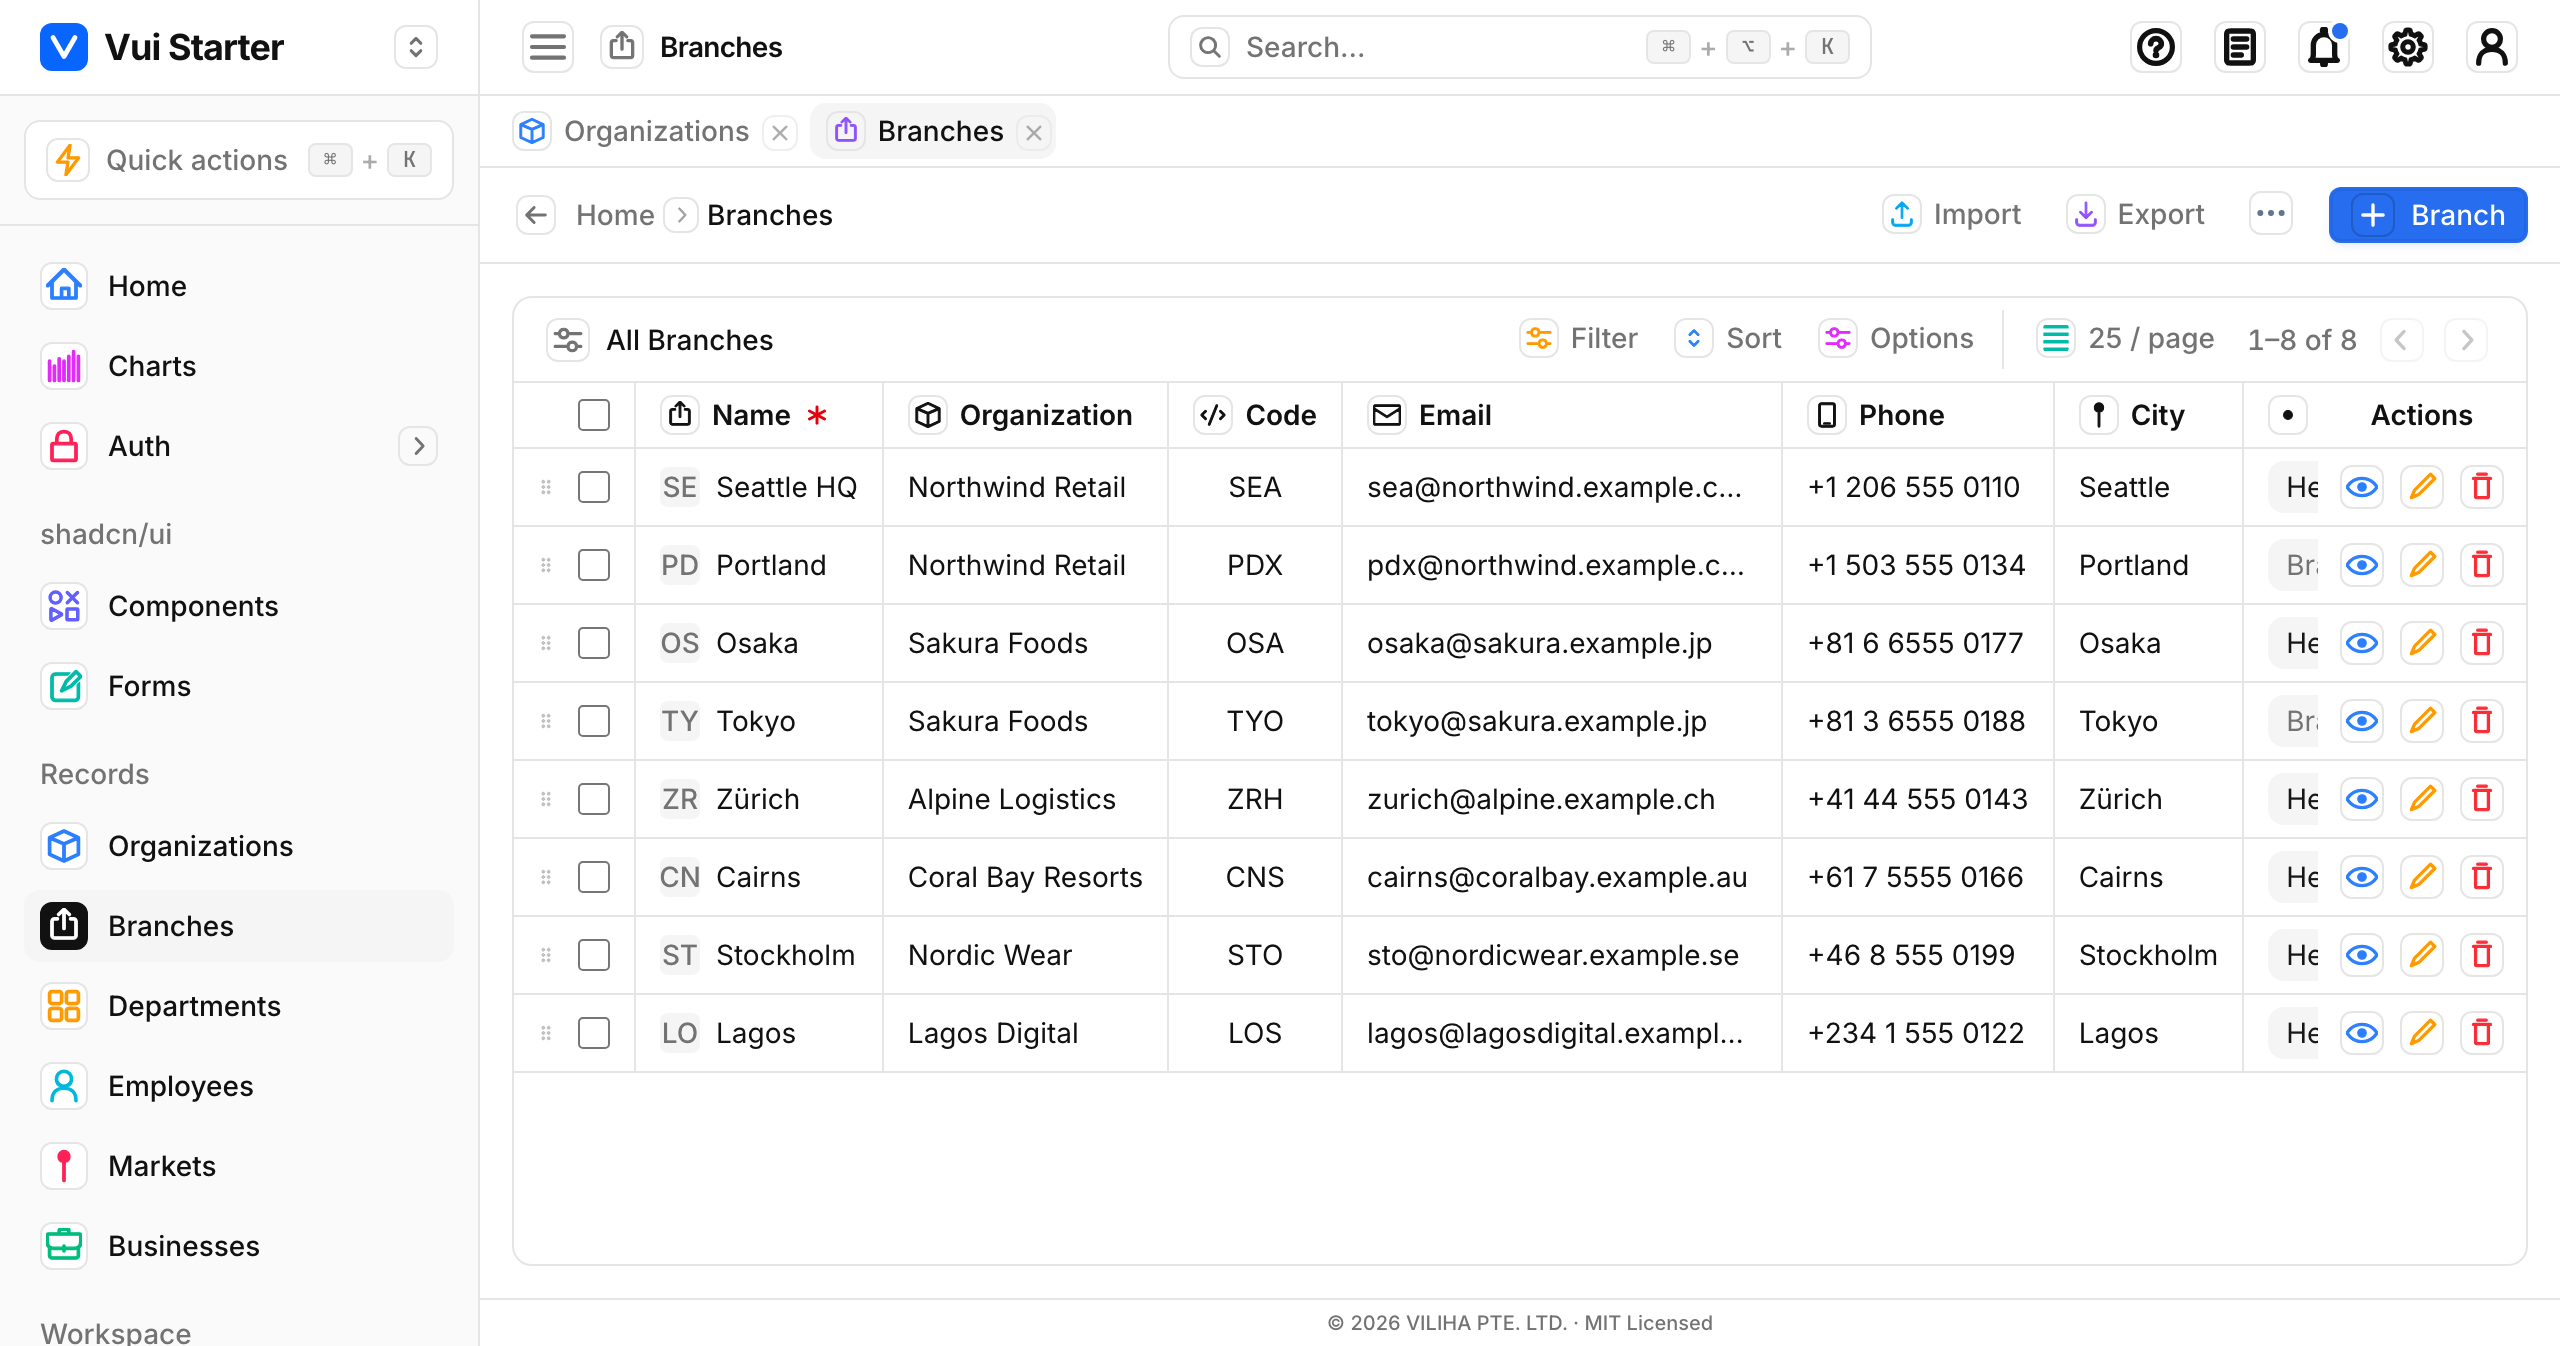
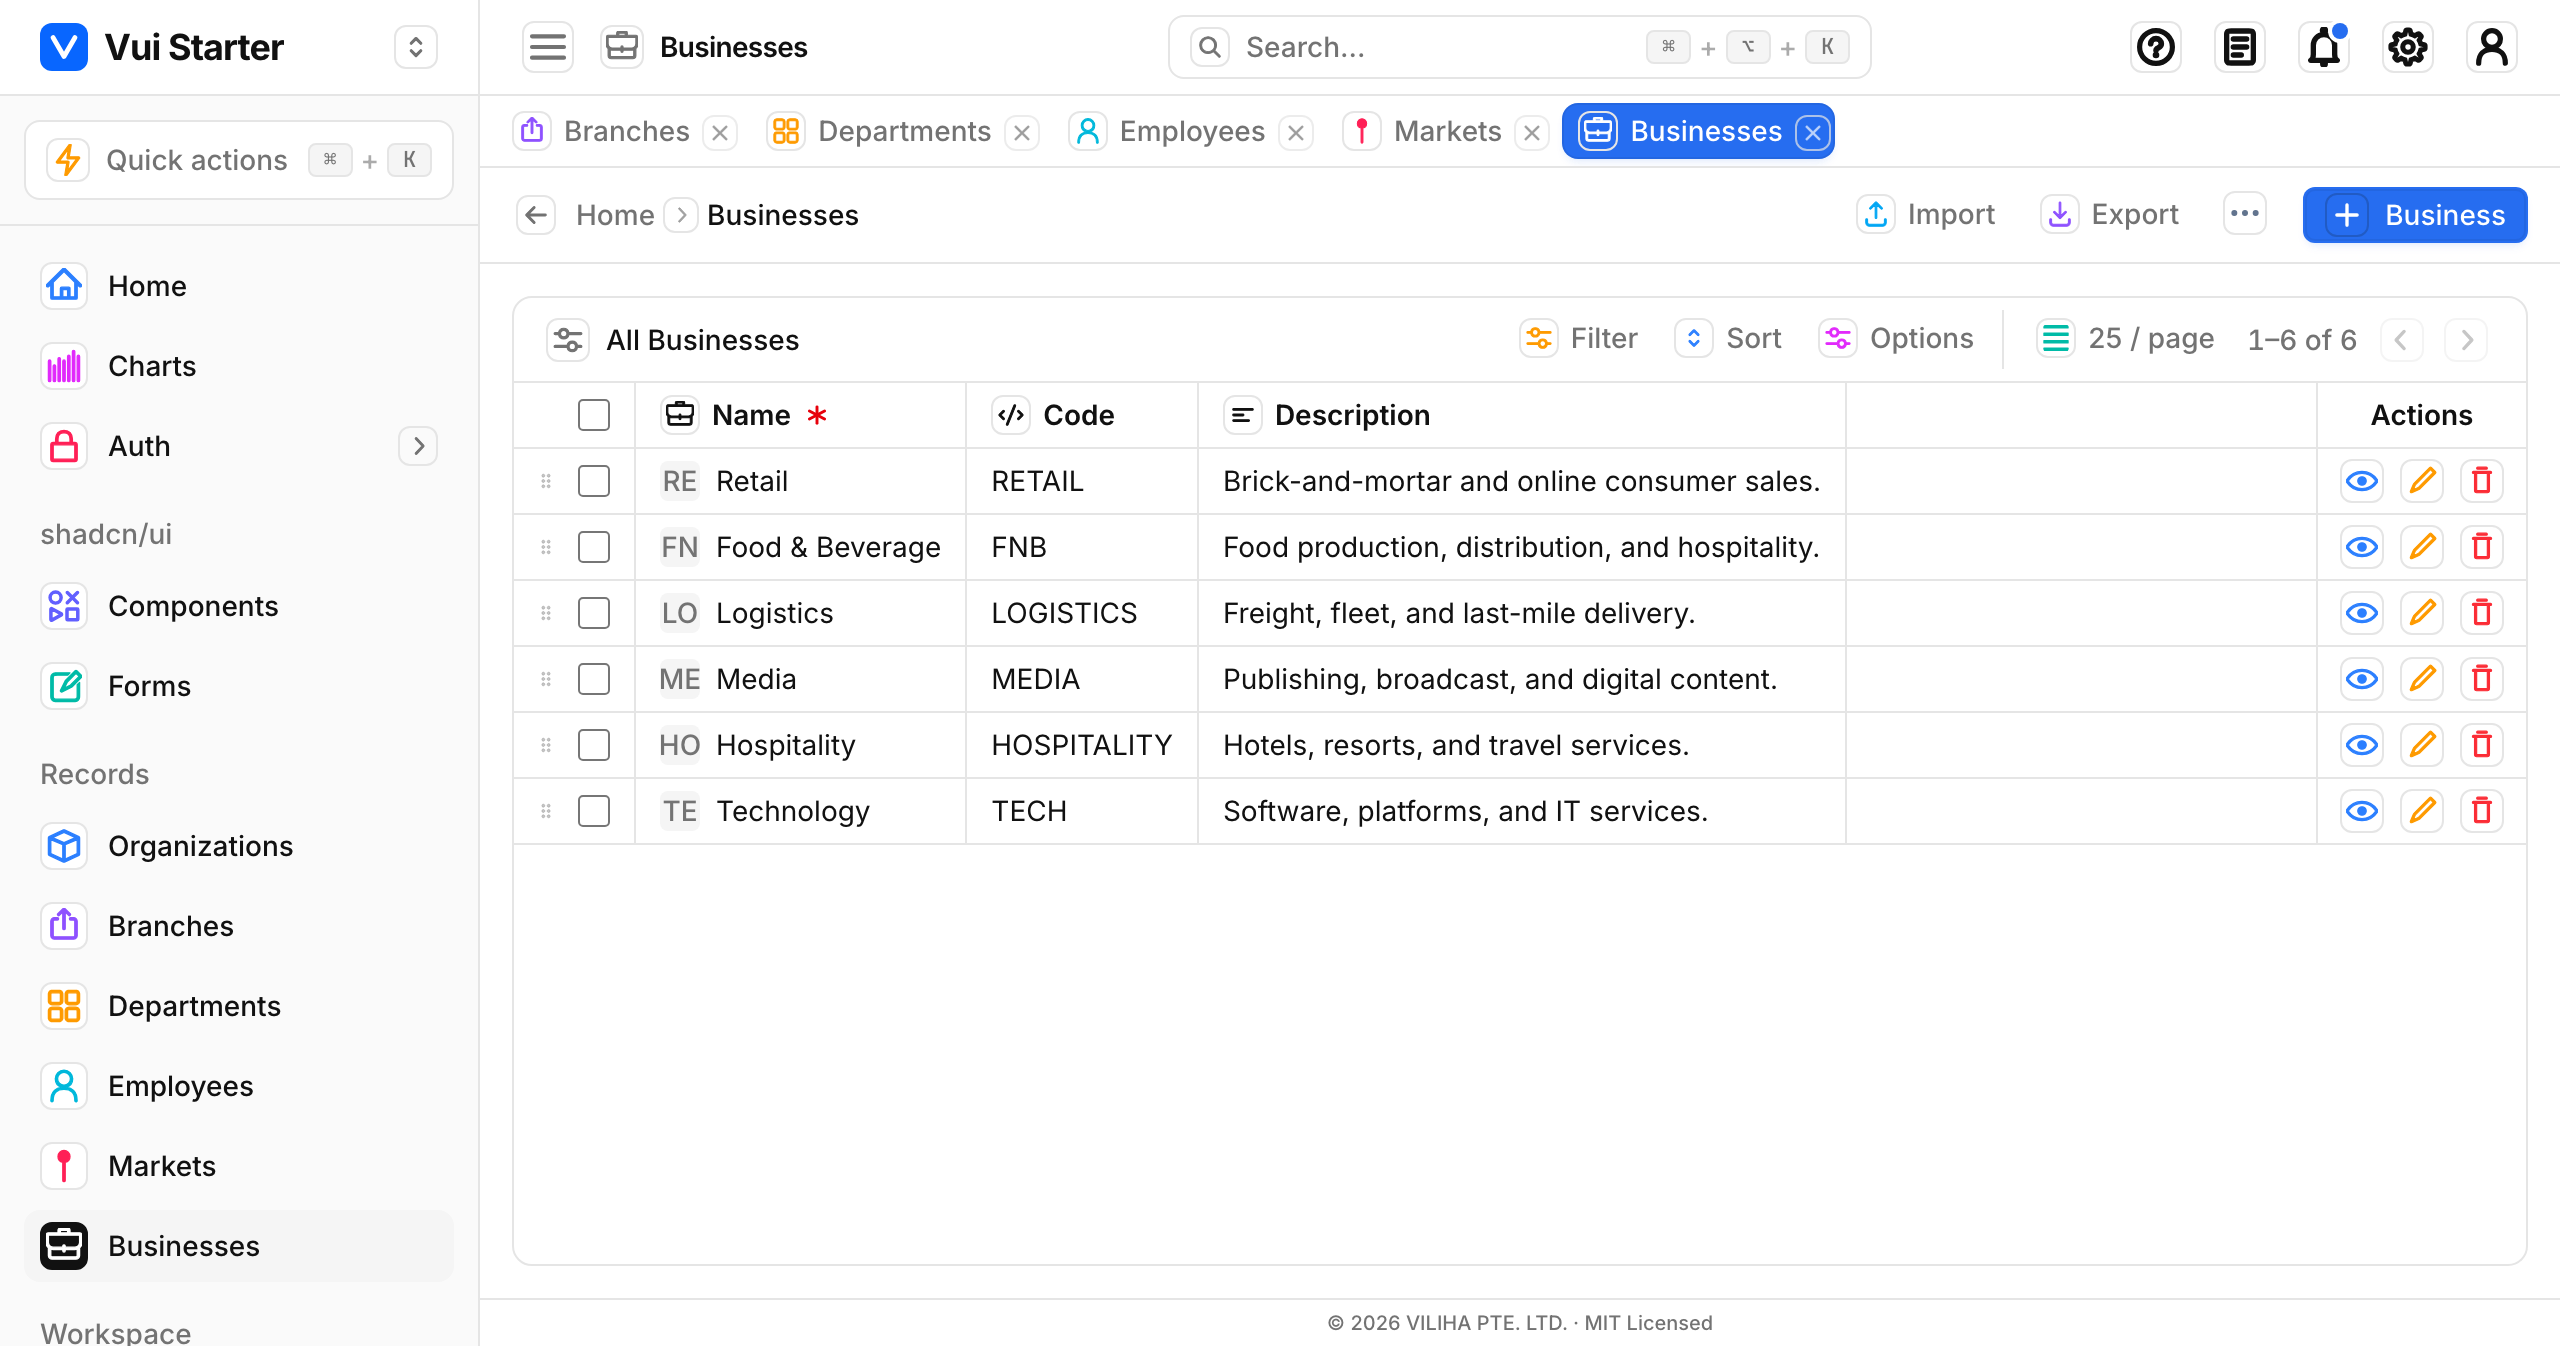
feat(backoffice): cap open tabs (NEXT_PUBLIC_MAX_TABS), warn + evict oldest; primary active tab
- Max open tabs from NEXT_PUBLIC_MAX_TABS (default 5, min 1); exceeding it
  evicts the oldest non-active tab (FIFO) with a transient warning. All
  client-side (sessionStorage) — no server involvement.
- Active tab now uses the primary color (blue pill, primary-foreground text).
- Documented the env var in .env.example and /docs/configuration.
Verified at runtime: 6 navigations with cap 5 leaves 5 tabs, oldest dropped.

diff --git a/apps/backoffice/app/_components/open-tabs.tsx b/apps/backoffice/app/_components/open-tabs.tsx
@@ -58,12 +58,20 @@ function tabMeta(href: string): Tab {
 
 const KEY = "vui.openTabs";
 
+/** Max tabs kept open, from the env (build-time inlined). Default 5, min 1. */
+export const MAX_TABS = (() => {
+  const n = Number(process.env.NEXT_PUBLIC_MAX_TABS);
+  return Number.isFinite(n) && n >= 1 ? Math.floor(n) : 5;
+})();
+
 type Ctx = {
   tabs: Tab[];
   activeHref: string;
   /** Add a tab. `background: true` opens it without leaving the current page. */
   openTab: (href: string, opts?: { background?: boolean }) => void;
   close: (href: string) => void;
+  /** Transient warning (e.g. the oldest tab was evicted at the cap). */
+  notice: string | null;
 };
 const OpenTabsContext = React.createContext<Ctx | null>(null);
 
@@ -79,8 +87,38 @@ export function OpenTabsProvider({ children }: { children: React.ReactNode }) {
   const router = useRouter();
   // Only hrefs are stored (icons don't serialize); tabs are derived on render.
   const [hrefs, setHrefs] = React.useState<string[]>([]);
+  const [notice, setNotice] = React.useState<string | null>(null);
+  const noticeTimer = React.useRef<ReturnType<typeof setTimeout>>(undefined);
+  // Latest pathname for the (pure) reducer without re-creating callbacks.
+  const activeRef = React.useRef(pathname);
+  activeRef.current = pathname;
+  // Set inside the reducer when a tab is evicted; drained by the persist effect
+  // so the warning fires exactly once. ponytail: a ref write in a reducer is a
+  // benign, idempotent side effect — fine here, avoids a second state pass.
+  const evicted = React.useRef(false);
 
-  // Hydrate from sessionStorage once, ensuring the current page is present.
+  const showNotice = React.useCallback((msg: string) => {
+    setNotice(msg);
+    clearTimeout(noticeTimer.current);
+    noticeTimer.current = setTimeout(() => setNotice(null), 3200);
+  }, []);
+
+  /** Add `href`, then evict the oldest tab that isn't the one just added or the
+   *  active page until within MAX_TABS. Pure enough to run in a reducer. */
+  const capAdd = React.useCallback((prev: string[], href: string): string[] => {
+    if (prev.includes(href)) return prev;
+    const next = [...prev, href];
+    while (next.length > MAX_TABS) {
+      const i = next.findIndex((h) => h !== href && h !== activeRef.current);
+      if (i === -1) break; // nothing safe to drop
+      next.splice(i, 1);
+      evicted.current = true;
+    }
+    return next;
+  }, []);
+
+  // Hydrate from sessionStorage once, ensuring the current page is present and
+  // the list is within the cap (older extras dropped silently on load).
   React.useEffect(() => {
     let stored: string[] = [];
     try {
@@ -88,33 +126,42 @@ export function OpenTabsProvider({ children }: { children: React.ReactNode }) {
     } catch {
       // ignore malformed storage
     }
-    if (!stored.includes(pathname)) stored = [...stored, pathname];
+    if (!stored.includes(pathname)) stored.push(pathname);
+    while (stored.length > MAX_TABS) {
+      const i = stored.findIndex((h) => h !== pathname);
+      if (i === -1) break;
+      stored.splice(i, 1);
+    }
     setHrefs(stored);
     // eslint-disable-next-line react-hooks/exhaustive-deps
   }, []);
 
   // Add the current route as a tab when navigating.
   React.useEffect(() => {
-    setHrefs((prev) => (prev.includes(pathname) ? prev : [...prev, pathname]));
-  }, [pathname]);
+    setHrefs((prev) => capAdd(prev, pathname));
+  }, [pathname, capAdd]);
 
-  // Persist the open list.
+  // Persist the open list, and surface any eviction that just happened.
   React.useEffect(() => {
     try {
       sessionStorage.setItem(KEY, JSON.stringify(hrefs));
     } catch {
       // ignore storage failures (private mode, quota)
     }
-  }, [hrefs]);
+    if (evicted.current) {
+      evicted.current = false;
+      showNotice(`Only ${MAX_TABS} tabs stay open — closed the oldest.`);
+    }
+  }, [hrefs, showNotice]);
 
   const openTab = React.useCallback(
     (href: string, opts?: { background?: boolean }) => {
       const clean = href.split("?")[0] ?? href;
-      setHrefs((prev) => (prev.includes(clean) ? prev : [...prev, clean]));
+      setHrefs((prev) => capAdd(prev, clean));
       // Foreground open switches to it; background just parks it in the strip.
       if (!opts?.background) router.push(href);
     },
-    [router],
+    [router, capAdd],
   );
 
   const close = React.useCallback(
@@ -132,8 +179,14 @@ export function OpenTabsProvider({ children }: { children: React.ReactNode }) {
   );
 
   const value = React.useMemo<Ctx>(
-    () => ({ tabs: hrefs.map(tabMeta), activeHref: pathname, openTab, close }),
-    [hrefs, pathname, openTab, close],
+    () => ({
+      tabs: hrefs.map(tabMeta),
+      activeHref: pathname,
+      openTab,
+      close,
+      notice,
+    }),
+    [hrefs, pathname, openTab, close, notice],
   );
 
   return (
@@ -145,7 +198,7 @@ export function OpenTabsProvider({ children }: { children: React.ReactNode }) {
 
 /** The tab strip — render it directly under the top bar. */
 export function TabStrip() {
-  const { tabs, activeHref, close } = useOpenTabs();
+  const { tabs, activeHref, close, notice } = useOpenTabs();
   const router = useRouter();
   if (tabs.length === 0) return null;
 
@@ -166,7 +219,7 @@ export function TabStrip() {
             className={cn(
               "group flex h-7 shrink-0 items-center gap-1.5 rounded-md pl-2 pr-1 text-sm transition-colors",
               active
-                ? "bg-accent text-foreground"
+                ? "bg-[var(--button-primary)] text-[var(--button-primary-foreground)] shadow-[var(--button-shadow)]"
                 : "text-muted-foreground hover:bg-accent/50",
             )}
           >
@@ -175,20 +228,38 @@ export function TabStrip() {
               onClick={() => router.push(t.href)}
               className="flex items-center gap-1.5"
             >
-              <Icon className={cn("size-3.5 shrink-0", t.color)} />
+              <Icon
+                className={cn(
+                  "size-3.5 shrink-0",
+                  active ? "text-[var(--button-primary-foreground)]" : t.color,
+                )}
+              />
               <span className="max-w-40 truncate">{t.label}</span>
             </button>
             <button
               type="button"
               onClick={() => close(t.href)}
               aria-label={`Close ${t.label}`}
-              className="grid size-4 place-items-center rounded text-muted-foreground opacity-60 transition-colors hover:bg-border hover:text-foreground group-hover:opacity-100"
+              className={cn(
+                "grid size-4 place-items-center rounded opacity-70 transition-colors group-hover:opacity-100",
+                active
+                  ? "text-[var(--button-primary-foreground)] hover:bg-white/20"
+                  : "text-muted-foreground hover:bg-border hover:text-foreground",
+              )}
             >
               <Cross2Icon className="size-3" />
             </button>
           </div>
         );
       })}
+      {notice && (
+        <span
+          role="status"
+          className="vui-fade-in ml-auto shrink-0 whitespace-nowrap rounded-md border border-border bg-muted px-2 py-1 text-xs text-muted-foreground"
+        >
+          {notice}
+        </span>
+      )}
     </div>
   );
 }

diff --git a/apps/backoffice/app/docs/configuration/page.tsx b/apps/backoffice/app/docs/configuration/page.tsx
@@ -39,7 +39,10 @@ NEXT_PUBLIC_COPYRIGHT_YEAR="2026"
 NEXT_PUBLIC_LICENSE="All rights reserved"
 
 # …or override the whole line at once (wins over the three above):
-NEXT_PUBLIC_FOOTER_NOTICE="© 2026 Acme Inc. · All rights reserved"`}</CodeBlock>
+NEXT_PUBLIC_FOOTER_NOTICE="© 2026 Acme Inc. · All rights reserved"
+
+# Max pages kept open in the tab strip (default 5, min 1):
+NEXT_PUBLIC_MAX_TABS="5"`}</CodeBlock>
       <Ul>
         <li>
           <code>NEXT_PUBLIC_COMPANY_NAME</code> — company shown in the footer.
@@ -53,6 +56,10 @@ NEXT_PUBLIC_FOOTER_NOTICE="© 2026 Acme Inc. · All rights reserved"`}</CodeBloc
         <li>
           <code>NEXT_PUBLIC_FOOTER_NOTICE</code> — replaces the entire line,
           taking precedence over the three above.
+        </li>
+        <li>
+          <code>NEXT_PUBLIC_MAX_TABS</code> — how many pages the tab strip keeps
+          open before evicting the oldest (default 5).
         </li>
       </Ul>
       <P>